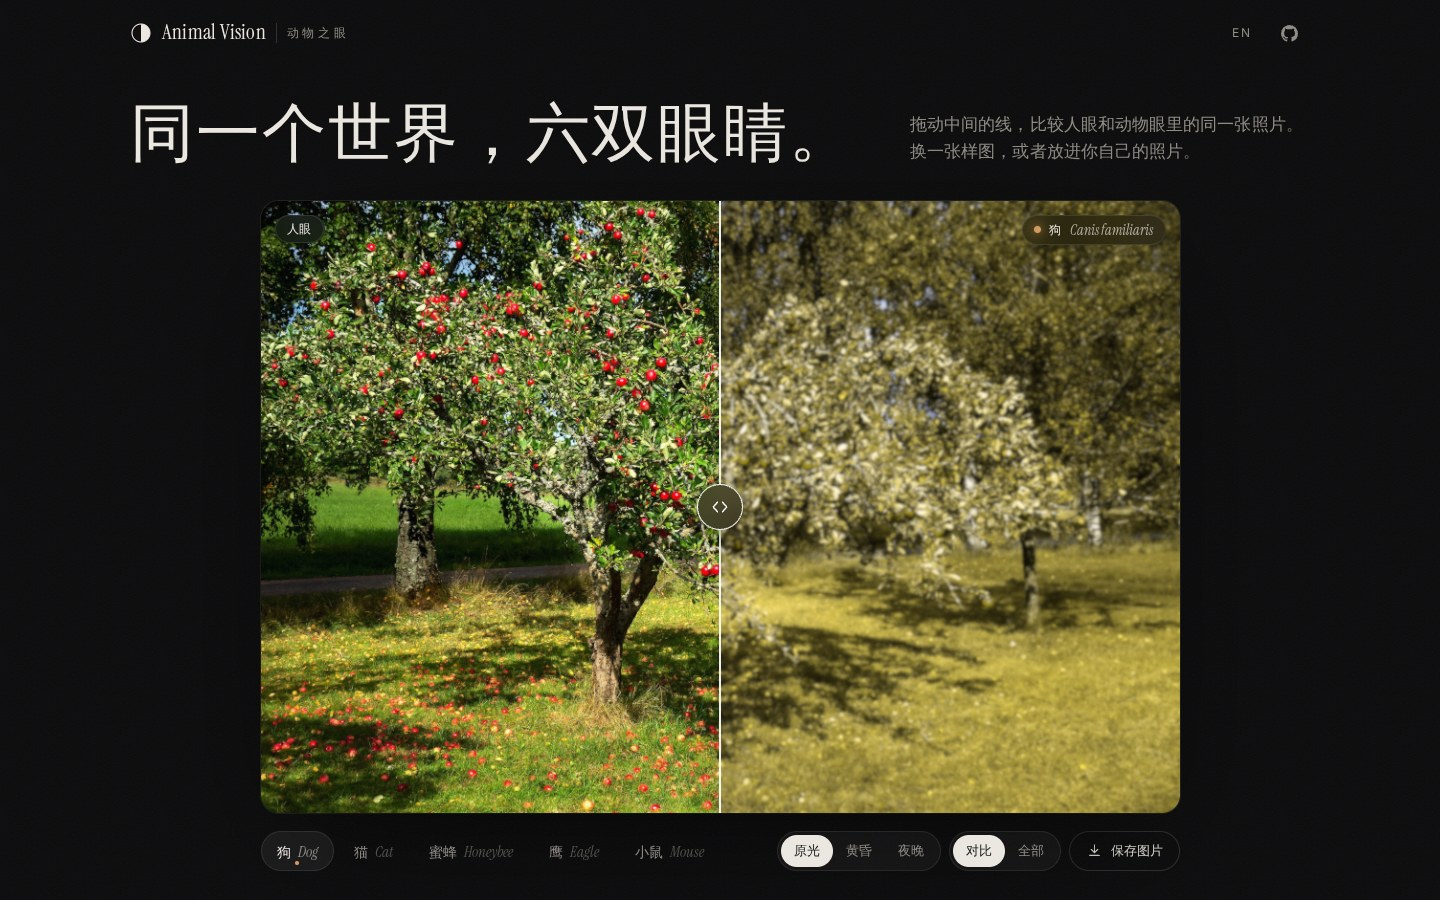
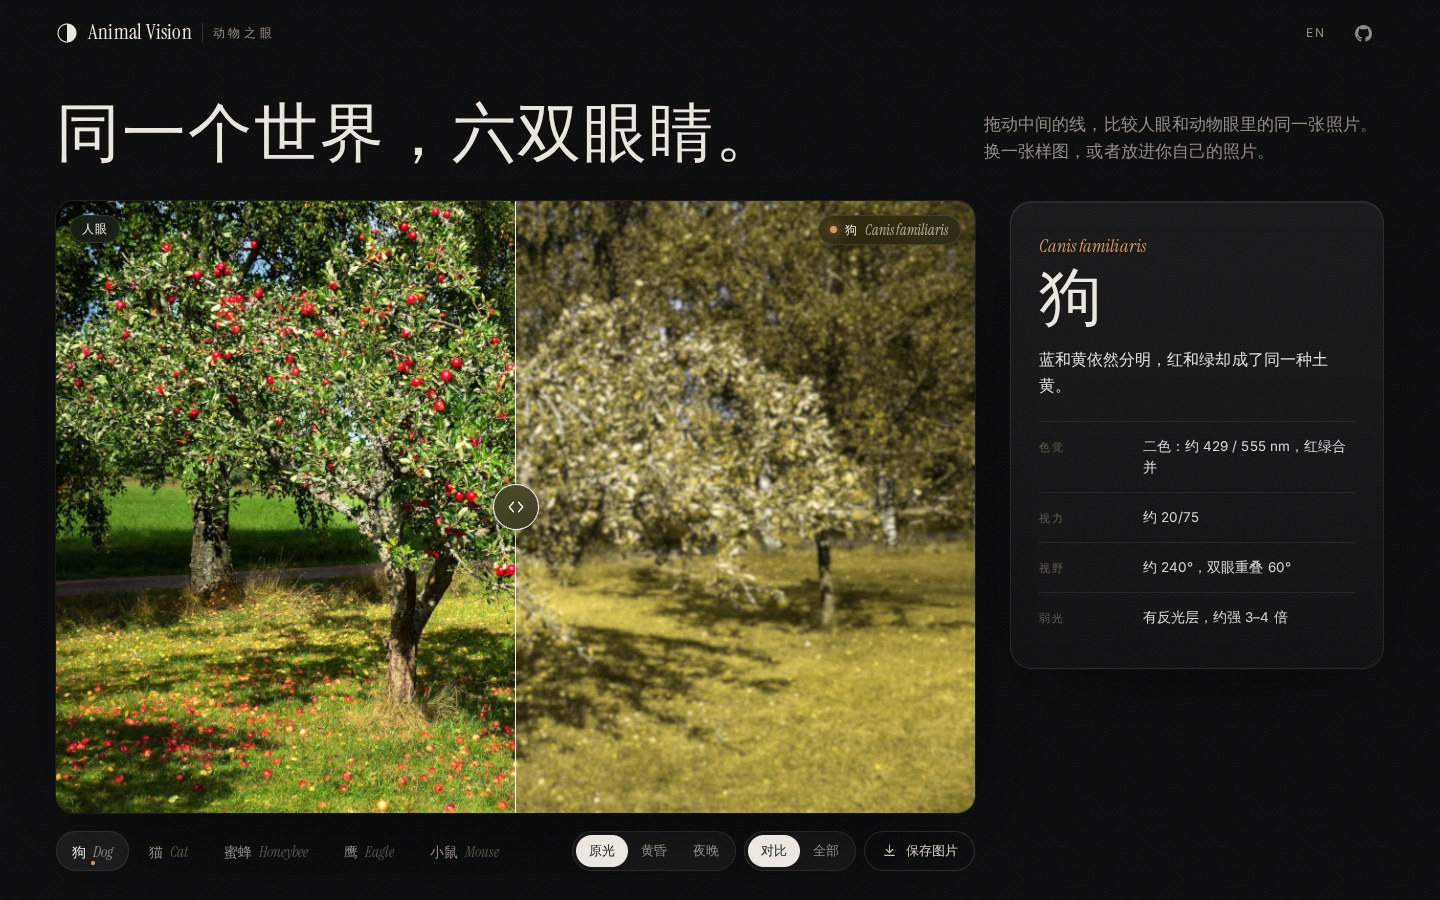
v5.1: species panel on the right, samples and upload directly under the photo

diff --git a/style.css b/style.css
@@ -36,7 +36,7 @@ svg { display: block; }
 
 /* ---------- header ---------- */
 .top {
-  max-width: calc(1180px + 2 * var(--pad)); margin: 0 auto;
+  max-width: calc(1560px + 2 * var(--pad)); margin: 0 auto;
   position: sticky; top: 0; z-index: 20;
   display: flex; align-items: center; justify-content: space-between;
   padding: 16px var(--pad);
@@ -59,9 +59,10 @@ svg { display: block; }
 
 /* ---------- intro ---------- */
 .intro {
+  max-width: calc(1560px + 2 * var(--pad)) !important;
   padding: clamp(14px, 3.5vh, 44px) var(--pad) clamp(20px, 3.5vh, 36px);
   display: flex; align-items: flex-end; justify-content: space-between; gap: 24px 48px; flex-wrap: wrap;
-  max-width: calc(1180px + 2 * var(--pad)); margin: 0 auto;
+  max-width: calc(1560px + 2 * var(--pad)); margin: 0 auto;
 }
 h1 {
   font-family: var(--serif); font-weight: 400; margin: 0; text-wrap: balance;
@@ -200,13 +201,19 @@ body.dragover .drop { opacity: 1; }
 .btn:hover { background: rgba(255, 255, 255, .06); border-color: rgba(255, 255, 255, .3); }
 
 /* ---------- about the eye ---------- */
+.studio { display: grid; grid-template-columns: minmax(0, 1fr) clamp(300px, 26vw, 380px); gap: clamp(20px, 2.4vw, 36px); max-width: 1560px; margin: 0 auto; align-items: start; }
+.stage-col { min-width: 0; display: flex; flex-direction: column; align-items: center; }
+.stage-col .bar { width: 100%; }
 .about {
-  display: grid; grid-template-columns: minmax(0, 1fr) minmax(0, 1.25fr); gap: clamp(28px, 6vw, 96px);
-  max-width: 1180px; margin: clamp(56px, 10vh, 110px) auto 0; padding: 0 var(--pad);
+  position: sticky; top: 76px; display: flex; flex-direction: column; gap: 22px;
+  padding: 30px 28px 26px; border-radius: 22px;
+  background: linear-gradient(180deg, rgba(255,255,255,.055), rgba(255,255,255,.018));
+  border: 1px solid var(--line); box-shadow: 0 30px 80px -40px rgba(0,0,0,.8), inset 0 1px 0 rgba(255,255,255,.06);
+  backdrop-filter: blur(18px); -webkit-backdrop-filter: blur(18px);
 }
 .latin { margin: 0; font-family: var(--serif); font-style: italic; font-size: 18px; color: var(--acc); transition: color .6s; }
-.about h2 { font-family: var(--serif); font-weight: 400; font-size: clamp(54px, 8vw, 112px); line-height: .95; margin: 6px 0 22px; letter-spacing: -.02em; }
-.line { font-size: clamp(16px, 1.4vw, 19px); line-height: 1.65; margin: 0; max-width: 460px; }
+.about h2 { font-family: var(--serif); font-weight: 400; font-size: clamp(48px, 4.4vw, 72px); line-height: .95; margin: 8px 0 18px; letter-spacing: -.02em; }
+.line { font-size: 15.5px; line-height: 1.7; margin: 0; color: rgba(255,255,255,.86); }
 .caveat { color: var(--mute); font-size: 13px; margin: 14px 0 0; max-width: 440px; }
 .caveat:empty { display: none; }
 .opts { margin-top: 22px; display: flex; gap: 8px; }
@@ -217,19 +224,26 @@ body.dragover .drop { opacity: 1; }
 .toggle[aria-pressed="true"] .sw { background: var(--acc); }
 .toggle[aria-pressed="true"] .sw::after { transform: translateX(12px); background: #111; }
 
-.facts { margin: 0; display: grid; grid-template-columns: 1fr 1fr; border-top: 1px solid var(--line); align-self: end; }
-.facts div { padding: 22px 0 24px; border-bottom: 1px solid var(--line); }
-.facts div:nth-child(odd) { padding-right: 24px; }
-.facts div:nth-child(even) { padding-left: 24px; border-left: 1px solid var(--line); }
-.facts dt { font-size: 11px; letter-spacing: .22em; text-transform: uppercase; color: var(--faint); margin-bottom: 8px; }
-.facts dd { margin: 0; font-size: 15px; line-height: 1.5; }
+.facts { margin: 0; display: grid; grid-template-columns: 1fr; border-top: 1px solid var(--line); }
+.facts div { padding: 14px 0; border-bottom: 1px solid var(--line); display: grid; grid-template-columns: 92px 1fr; gap: 12px; align-items: baseline; }
+.facts div:last-child { border-bottom: 0; }
+.facts dt { font-size: 10.5px; letter-spacing: .2em; text-transform: uppercase; color: var(--faint); }
+.facts dd { margin: 0; font-size: 13.5px; line-height: 1.55; color: rgba(255,255,255,.82); }
 
 /* ---------- gallery ---------- */
-.gallery { max-width: 1180px; margin: clamp(60px, 11vh, 120px) auto 0; padding: 0 var(--pad); }
+.gallery { width: 100%; margin: 26px 0 0; padding: 0; }
+.gallery h3 { font-size: 22px; }
+.gallery .sec-h { margin-bottom: 12px; }
+.gallery .hint { font-size: 12.5px; }
 .sec-h { display: flex; align-items: baseline; justify-content: space-between; gap: 20px; flex-wrap: wrap; margin-bottom: 18px; }
 h3 { font-family: var(--serif); font-weight: 400; font-size: clamp(30px, 3.4vw, 44px); margin: 0; letter-spacing: -.01em; }
 .hint { color: var(--mute); margin: 0; max-width: 520px; font-size: 14px; }
-.thumbs { display: grid; grid-template-columns: repeat(7, minmax(0, 1fr)); gap: 10px; }
+.thumbs { display: grid; grid-template-columns: repeat(6, minmax(0, 1fr)); gap: 10px; }
+.thumbs .upload { grid-column: 1 / -1; order: 99; aspect-ratio: auto !important; min-height: 96px; display: grid !important; grid-template-columns: 44px auto 1fr; align-items: center; gap: 4px 18px; padding: 0 26px; background: linear-gradient(90deg, rgba(255,255,255,.04), rgba(255,255,255,.01)); }
+.thumbs .upload .plus { position: static; grid-row: 1 / 3; width: 44px; height: 44px; }
+.thumbs .upload b { font-size: 24px; align-self: end; }
+.thumbs .upload small { grid-column: 2 / 4; align-self: start; font-size: 12.5px; }
+.thumbs .thumb { aspect-ratio: 4 / 3; }
 .thumb, .upload {
   position: relative; aspect-ratio: 4 / 5; border-radius: 12px; overflow: hidden; cursor: pointer;
   background: var(--bg2); border: 1px solid var(--line); transition: transform .5s var(--ease), border-color .3s;
@@ -255,14 +269,14 @@ h3 { font-family: var(--serif); font-weight: 400; font-size: clamp(30px, 3.4vw, 
 .upload small { color: var(--mute); font-size: 11.5px; line-height: 1.45; }
 
 /* ---------- science ---------- */
-.science { max-width: 1180px; margin: clamp(70px, 12vh, 130px) auto 0; padding: 0 var(--pad); }
+.science { max-width: calc(1560px + 2 * var(--pad)); margin: clamp(70px, 12vh, 130px) auto 0; padding: 0 var(--pad); }
 .notes { display: grid; grid-template-columns: repeat(4, minmax(0, 1fr)); gap: 0; margin-top: 22px; border-top: 1px solid var(--line); }
 .notes div { padding: 22px 22px 0 0; }
 .notes div + div { padding-left: 22px; border-left: 1px solid var(--line); }
 .notes b { display: block; font-size: 11px; letter-spacing: .22em; text-transform: uppercase; color: var(--faint); font-weight: 500; margin-bottom: 10px; }
 .notes p { margin: 0; color: #bdb8b0; font-size: 14px; line-height: 1.7; }
 
-.foot { max-width: 1180px; margin: clamp(70px, 12vh, 130px) auto 0; padding: 26px var(--pad) 44px; border-top: 1px solid var(--line); color: var(--faint); font-size: 12px; display: flex; justify-content: space-between; gap: 20px; flex-wrap: wrap; }
+.foot { max-width: min(1560px, calc(100% - 2 * var(--pad))); margin: clamp(70px, 12vh, 130px) auto 0; padding: 26px 0 44px; border-top: 1px solid var(--line); color: var(--faint); font-size: 12px; display: flex; justify-content: space-between; gap: 20px; flex-wrap: wrap; }
 .foot p { margin: 0; max-width: 820px; }
 .foot a { color: var(--mute); text-decoration: none; border-bottom: 1px solid var(--line2); }
 .foot a:hover { color: var(--ink); }
@@ -274,7 +288,7 @@ h3 { font-family: var(--serif); font-weight: 400; font-size: clamp(30px, 3.4vw, 
 @keyframes swap { from { opacity: 0; transform: translateY(8px); filter: blur(4px); } to { opacity: 1; transform: none; filter: none; } }
 
 @media (max-width: 980px) {
-  .thumbs { grid-template-columns: repeat(4, minmax(0, 1fr)); }
+  .thumbs { grid-template-columns: repeat(3, minmax(0, 1fr)); }
   .notes { grid-template-columns: 1fr 1fr; }
   .notes div:nth-child(3) { padding-left: 0; border-left: 0; }
   .notes div:nth-child(n+3) { margin-top: 22px; padding-top: 22px; border-top: 1px solid var(--line); }
@@ -312,3 +326,9 @@ h3 { font-family: var(--serif); font-weight: 400; font-size: clamp(30px, 3.4vw, 
   .knob { width: 40px; height: 40px; margin: -20px 0 0 -20px; }
 }
 @media (prefers-reduced-motion: reduce) { * { transition: none !important; animation: none !important; } }
+
+@media (max-width: 980px) {
+  .studio { grid-template-columns: 1fr; }
+  .about { position: static; }
+  .thumbs { grid-template-columns: repeat(3, minmax(0, 1fr)); }
+}

diff --git a/index.html b/index.html
@@ -36,6 +36,8 @@
   </section>
 
   <section class="stage-wrap">
+    <div class="studio">
+    <div class="stage-col">
     <div class="stage" id="stage">
       <canvas id="view" aria-label="comparison"></canvas>
       <div class="tag tag-l" id="tagL"></div>
@@ -60,20 +62,7 @@
         </button>
       </div>
     </div>
-  </section>
-
-  <section class="about" id="about">
-    <div class="about-head">
-      <p class="latin" id="latin"></p>
-      <h2 id="spName"></h2>
-      <p class="line" id="spLine"></p>
-      <p class="caveat" id="spCaveat"></p>
-      <div class="opts" id="opts"></div>
-    </div>
-    <dl class="facts" id="facts"></dl>
-  </section>
-
-  <section class="gallery">
+  <div class="gallery">
     <div class="sec-h"><h3 id="samplesH"></h3><p class="hint" id="hint"></p></div>
     <div class="thumbs" id="thumbs">
       <label class="upload" id="uploadTile">
@@ -82,7 +71,22 @@
         <b id="uploadT"></b><small id="uploadS"></small>
       </label>
     </div>
+  </div>
+    </div>
+  <aside class="about" id="about">
+    <div class="about-head">
+      <p class="latin" id="latin"></p>
+      <h2 id="spName"></h2>
+      <p class="line" id="spLine"></p>
+      <p class="caveat" id="spCaveat"></p>
+      <div class="opts" id="opts"></div>
+    </div>
+    <dl class="facts" id="facts"></dl>
+  </aside>
+    </div>
   </section>
+
+
 
   <section class="science">
     <h3 id="sciH"></h3>

diff --git a/src/app.js b/src/app.js
@@ -32,7 +32,7 @@ const gridShape = () => (isMobile() ? [2, 3] : [3, 2]);
 let css = { w: 0, h: 0 };
 function layout() {
   const wrap = stage.parentElement;
-  const avail = wrap.clientWidth - parseFloat(getComputedStyle(wrap).paddingLeft) * 2;
+  const avail = wrap.clientWidth;
   const [cols, rows] = gridShape();
   const aspect = state.view === 'grid' ? (cols * state.imgW) / (rows * state.imgH) : state.imgW / state.imgH;
   const top = stage.getBoundingClientRect().top + scrollY;
